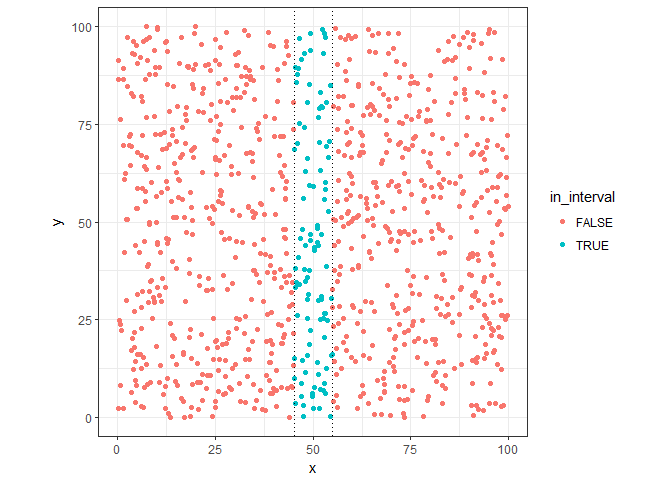
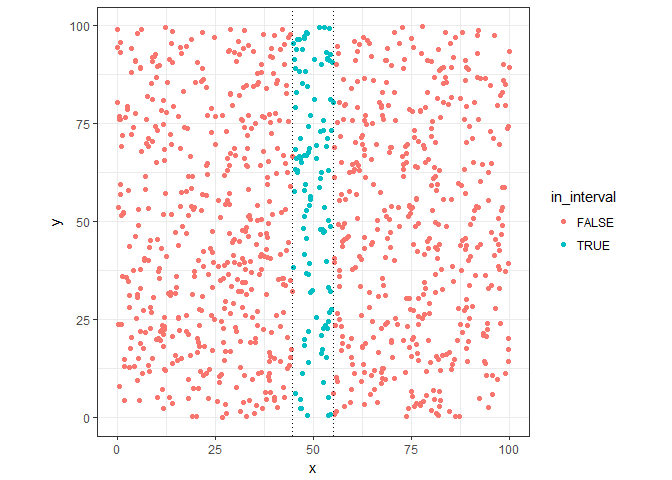
adjusts

diff --git a/Chapter01 - Intro/Course_of_Dimensionality.md b/Chapter01 - Intro/Course_of_Dimensionality.md
@@ -47,7 +47,7 @@ x_dist
 
 ```
 ##      10% 
-## 9.743032
+## 10.39658
 ```
 
 We can see that in one dimention the size of the range necessary to get 10% of the datapoints are around 10% of this dimentions (uniform distributed)
@@ -81,12 +81,12 @@ dt %>%
 ```
 
 ```
-## [1] 103
+## [1] 111
 ```
 
 ## Two Dimension
 
-Now, lets see the case in two dimentions, firts we'll use the same interval found in one dimention case: ``9.7430323``, but in this case, we need to check points around ```(x=50, y=50)```.
+Now, lets see the case in two dimentions, firts we'll use the same interval found in one dimention case: ``10.3965795``, but in this case, we need to check points around ```(x=50, y=50)```.
 
 
 ```r
@@ -144,7 +144,9 @@ dists %>%
   }) %>% bind_rows() -> distCases
 
 ggplot(distCases, aes(x=dist, y=pct)) +
-  geom_line() + theme_bw()
+  geom_line() +
+  geom_hline(yintercept = 0.1, linetype="dotted") + 
+  theme_bw()
 ```
 
 ![](Course_of_Dimensionality_files/figure-html/coverageTwoDim-1.png)<!-- -->
@@ -161,10 +163,10 @@ print(twoDim10pct)
 ## # A tibble: 1 x 3
 ##    dist points    pct
 ##   <int>  <int>  <dbl>
-## 1    16     89 0.0890
+## 1    16     84 0.0840
 ```
 
-The distance to get 10% of data points are 16 in size, almost twice the original range in one dimention.
+The distance to get 10% of data points are 16 in size, about twice the original range in one dimention.
 
 
 ```r
@@ -214,8 +216,33 @@ dists %>%
 
 multDimCases %>%
   ggplot(aes(x=dist, y=cover_pct, colour=dimensions)) +
-  geom_line() + theme_bw() 
+  geom_line() +
+  geom_hline(yintercept = 0.1, linetype="dotted") + 
+  theme_bw() 
 ```
 
 ![](Course_of_Dimensionality_files/figure-html/aditionalDim-1.png)<!-- -->
+
+The distances to capture 10% of data points along the 5 dimension.
+
+
+```r
+multDimCases %>% 
+  group_by(dimensions) %>%
+  filter( cover_pct <= 0.1 ) %>%
+  filter( cover_pct == max(cover_pct) ) %>%
+  select( dimensions, dist ) %>% print()
+```
+
+```
+## # A tibble: 5 x 2
+## # Groups: dimensions [5]
+##   dimensions  dist
+##   <fctr>     <int>
+## 1 d1             4
+## 2 d2            16
+## 3 d3            28
+## 4 d4            37
+## 5 d5            45
+```
 
